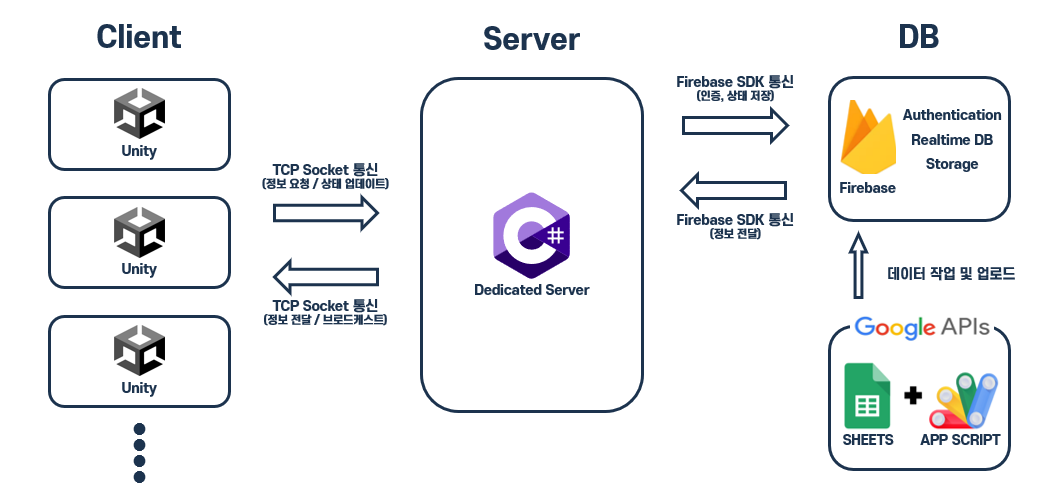
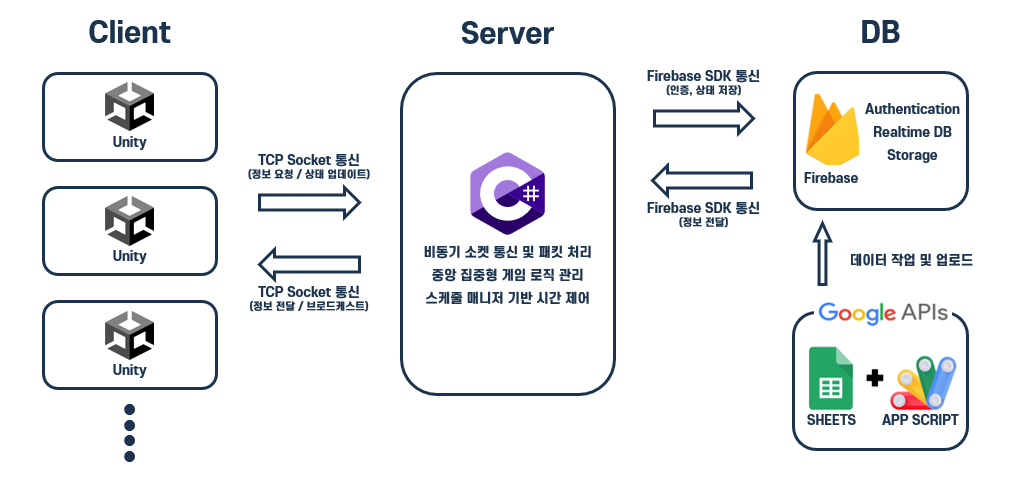
리드미 수정

diff --git a/README.md b/README.md
@@ -23,7 +23,9 @@
 
 판타지 배경의 쿼터뷰 3D 멀티 RPG 게임입니다. 
 
-데디케이트 서버를 구축하여, 멀티플레이가 가능합니다.
+C# 기반 게임 서버를 구축하여, 멀티플레이가 가능합니다.
+
+3D 게임 개발 및 네트워크 시스템에 대한 전반적인 이해를 목적으로, 클라이언트부터 서버와 DB까지 직접 설계하고 구현했습니다.
 
 ## 🎬 인게임 사진
 
@@ -52,7 +54,7 @@
 ## 🔧 시스템 구조도
 
 <p align="center">
-  <img width="1056" height="501" alt="image" src="Images/시스템구조도.png" />
+  <img width="1056" height="501" alt="시스템 구조도" src="Images/시스템구조도.png" />
 </p>
 
 ## ✨ 주요 기능
